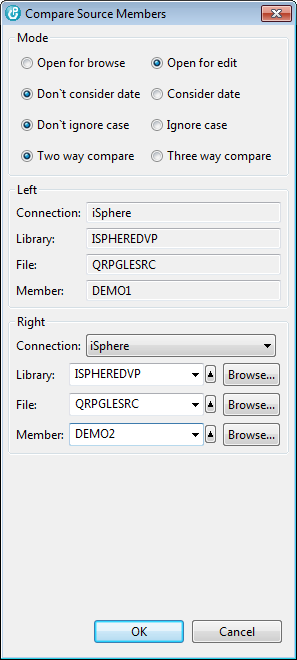
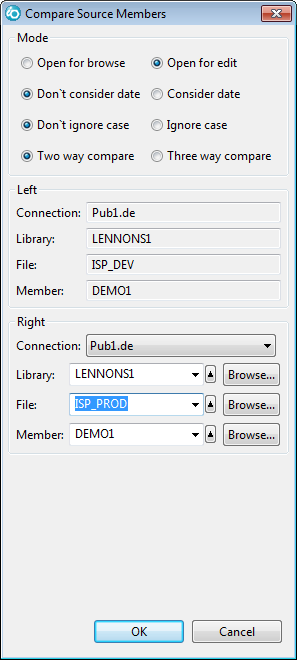
Compare/Editor:  Added text and images and reworked existing text.

diff --git a/eclipse/iSphere Help Core/html/comparemergeeditor/comparemergeeditor.html b/eclipse/iSphere Help Core/html/comparemergeeditor/comparemergeeditor.html
@@ -2,86 +2,148 @@
 
 <html>
 <head>
-	<meta http-equiv="Content-Type" content="text/html; charset=iso-8859-1">
-	<link rel="stylesheet" type="text/css" href="../stylesheet.css">
-	<title>Source File Compare/Merge Editor</title>
+<meta http-equiv="Content-Type" content="text/html; charset=iso-8859-1">
+<link rel="stylesheet" type="text/css" href="../stylesheet.css">
+<title>Source File Compare/Merge Editor</title>
 </head>
 
 <body>
-<h1>Source File Compare/Merge Editor</h1>
-<p>
-The Compare/Merge Editor gives you the ability to compare/merge source physical 
-file members.
-<p>
-To compare/merge source physical file members do the following.
-<p>
-<ul>
-<li>In the Remote Systems Explorer open the context menu for a source physical 
-file member.</li>
-<li>Select menu item "iSphere Compare Editor".</li>
-</ul>
-<p>
-<img src="assets/compare_merge_select.png" 
-     align="middle">
-<p>
-Enter the name of the source member that you want to compare the selected source 
-member with and click the <i>OK</i> button.
-<p>
-<img src="assets/compare_merge_editor.png" 
-     align="middle">
-<p>
-Today there are a couple of restriction to know about:
-<p>
-<table>
-<tr><td class="notice" >Notice: The date of the source lines are set to the current 
-date, if the <i>Ignore Date</i> option is selected. That cannot be changed yet, 
-due to restrictions in the Eclipse compare support.</td></tr>
-</table>
-<p>
-<table>
-<tr><td class="notice" >Notice: It is impossible to exclude a range of columns from 
-source compare, due to restrictions in the Eclipse compare support.</td></tr>
-</table>
-<p>
-It might be possible to fix both issues with the next release of RDi, provided that 
-IBM/Rational updates the Eclipse version.
-<p>
-See these links for more details:
-<p>
-<a href="https://bugs.eclipse.org/bugs/show_bug.cgi?id=382427" target="_blank">https://bugs.eclipse.org/bugs/show_bug.cgi?id=382427</a>
-<br>
-<a href="https://git.eclipse.org/r/#/c/9004" target="_blank">https://git.eclipse.org/r/#/c/9004</a>
-<p>
-<h2>Selecting Multiple Members at Once</h2>
-<p>
-<h3>Two Members</h3>
-<p>
-If two members are selected at once, the first member is the <i>Left member</i> and the 
-second one is the <i>Right member</i>. The members can be switched with the switch member
-button between the left and right member sections:
-<p>
-<img src="assets/switch_members_button.png" 
-     align="middle">
-<p>
-<h3>Three or More Members</h3>
-<p>
-If three or more members are selected, the left member is set to <i>*SELECTED</i>
-and the name of the right member is set to <i>*LEFT</i> and cannot be changed.
-<p>
-<img src="assets/three_or_more_members.png" 
-     align="middle">
-<p>
-When the <i>OK</i> button is clicked, a compare dialog is opened for each selected member.
-<p>
-This option is useful, when comparing members with the same name but different source files,
-e.g. members of the development level and members of the production level. 
-<p>
-<table>
-<tr><td class="notice" >Notice: The information message that pops up when there are no 
-differences between the members, is part of the Eclipse compare framework and cannot be 
-disabled with the current Eclipse support.</td></tr>
-</table>
-<p>
-<iframe src="../copyright.html" width="100%" frameborder="0" marginheight="0" marginwidth="0"></iframe>
+	<h1>Source File Compare/Merge Editor</h1>
+	<p>The Compare/Merge Editor allows you to compare and merge source
+		physical file members. The results of the compare are shown in left
+		and right panes and you can easily copy some or all of the differences
+		from the right pane to the left pane.
+	<p>To compare/merge source physical file members:
+	<p>
+	<ul>
+		<li>In the Remote Systems Explorer open the context menu (right
+			click) of a source physical file member. This is the source file that
+			will be opened in the left pane.</li>
+		<li>Select menu item "iSphere Compare Editor".</li>
+	</ul>
+	<p>
+	<div>
+		<img src="assets/compare_merge_select.png" align="middle"
+			style="float: left; margin-right: 5em";> <br>
+		<p>Set the Mode for the compare:
+		<ul style="list-style-type: circle">
+			<li>Use "Open for browse" or "Open for edit" to specify how the
+				left pane of the compare opens.</li>
+			<li>Use "Don't consider date" or "Consider date" to specipy if
+				the date field in each source line will be used in the compare.</li>
+			<li>Use "Don't ignore case" of "Ignore case" to specify if the
+				compare should be case sensitive of insensitive.</li>
+			<li>Use "Two way compare" to compare two source members.</li>
+			<li>Use "Three way compare" to include an ancestor to the source
+				in the right pane.<br>
+			</li>
+		</ul>
+		<P>&nbsp;</P>
+		<P>&nbsp;</P>
+		<p>Note that in the &quot;Left&quot; section the name of the
+			source member for the left pane is specified and cannot be changed.</p>
+		<P>&nbsp;</P>
+		<P>&nbsp;</P>
+		<P>&nbsp;</P>
+		<p>
+			In the "Right" section the Library, File and Menber have been
+			defaulted to the &quot;Left&quot; values. <br>Change as needed
+			to specify the source member that is to be compared to the source
+			member in the "Left" section.
+		<P>&nbsp;</P>
+		<P>&nbsp;</P>
+		Click the [OK] button to start the compare.
+
+		<p style="clear: both;"">
+		<P>&nbsp;</P>
+	</div>
+	<p>The coompare tab opens, showing the differences.
+	<p>
+		<img src="assets/compare_merge_editor.png" align="middle">
+	<p>
+	<p>There are 4 buttons in the top righr corner if you opened the
+		left pane for browse, and 6 buttons if you opened it for edit. Use
+		these buttons to move from change to change, and to copy lines form the
+		right pane to the left pane. (Hover over each button for help text.)
+	<p>
+		<img src="assets/compare_merge_editor.buttons.png" align="middle">
+	<p>
+	<p>Today there are a couple of restriction to know about:
+	<table>
+		<tr>
+			<td class="notice">Notice: The date of copied source lines is
+				set to the current date, regardless of the "Don't consider date" or
+				"Consider date" setting. This cannot be changed yet, due to
+				restrictions in the Eclipse compare support.</td>
+		</tr>
+	</table>
+	<p>
+	<table>
+		<tr>
+			<td class="notice">Notice: It is impossible to exclude a range
+				of columns from source compare, due to restrictions in the Eclipse
+				compare support.</td>
+		</tr>
+	</table>
+	<p>It might be possible to fix both issues with the next release of
+		RDi, provided that IBM/Rational updates the Eclipse version.
+	<p>See these links for more details:
+	<p>
+		<a href="https://bugs.eclipse.org/bugs/show_bug.cgi?id=382427"
+			target="_blank">https://bugs.eclipse.org/bugs/show_bug.cgi?id=382427</a>
+		<br> <a href="https://git.eclipse.org/r/#/c/9004" target="_blank">https://git.eclipse.org/r/#/c/9004</a>
+	<p>
+	<h2>Selecting Multiple Members at Once</h2>
+	<p>
+	<h3>Two Members</h3>
+	<p>
+		If two members are selected at once, the first member is the <i>Left
+			member</i> and the second one is the <i>Right member</i>. <p>The members can
+		be switched with the switch member button located between the &quot;Left&quot;
+		and &quot;Right&quot; member sections:
+	<p>
+		<img src="assets/switch_members_button.png" align="middle">
+	<p>
+	<h3>Three or More Members</h3>
+	<p>This is a special case where you want to compare members of the
+		same name in different library or source file. For example, comparing
+		members at the development level with those in production. You have to
+		enter the specifications in the right pane only once.
+	<P>Consider this example where we want to compare three members in
+		a development library with the same three member in the production
+		library.
+	<p>We have highlighted the three members in the RSE view, right
+		clicked, and clicked "iSphere Compare Editor".
+	<p>
+	<p>
+		<img src="assets/three_or_more_members.png" align="middle"
+			style="float: none">
+	<p>
+		In the "Left" section the member is set to <i>*SELECTED</i> and cannot
+		be changed. This means that it will be replaced successively by the
+		member names that have been selected in the RSE view, and each will be compared
+		to the same member in the "Right" section.
+	<p>
+		In the "Right" section the Connection, Library or File may be changed,
+		but the name of the right member is set to <i>*LEFT</i> and cannot be
+		changed.
+	<p>To compare to the production libary, we set the &quot;File&quot;
+		field to ISP_PROD and click [OK]. A compare is run for each selected
+		member and a tab opens for each member where there are differences.  In this example, there are no changes in DEMO2.
+	<p>
+		<img src="assets/three_or_more_members.results.png" align="middle"
+			style="float: initial">
+	<p>
+	<table>
+		<tr>
+			<td class="notice">Notice: The information message that pops up
+				when there are no differences between the members is part of the
+				Eclipse compare framework and cannot be disabled with the current
+				Eclipse support.</td>
+		</tr>
+	</table>
+	<p>
+		<iframe src="../copyright.html" width="100%" frameborder="0"
+			marginheight="0" marginwidth="0"></iframe>
 </body>
 </html>
